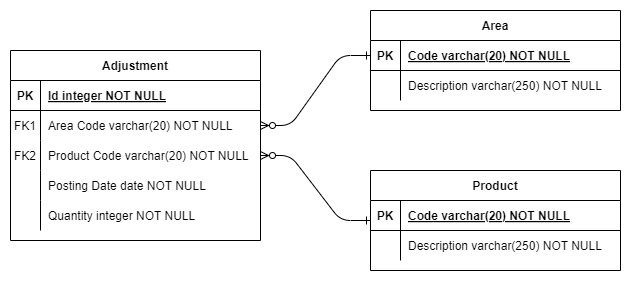
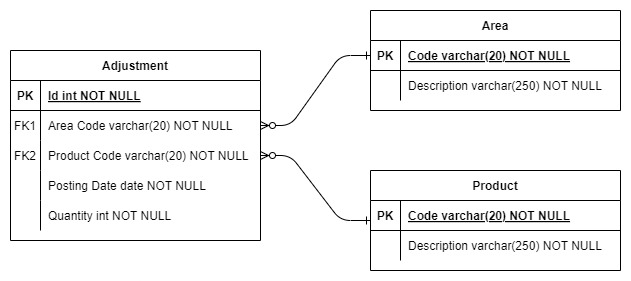
- worked on database design and sql logic (database creation)

Changed region(s): [[0.1204, 0.3132, 0.271, 0.3701], [0.1807, 0.7402, 0.3011, 0.7972]]

diff --git a/ToolLogicLibrary/Properties/Resources.Designer.cs b/ToolLogicLibrary/Properties/Resources.Designer.cs
@@ -1,0 +1,72 @@
+//------------------------------------------------------------------------------
+// <auto-generated>
+//     Dieser Code wurde von einem Tool generiert.
+//     Laufzeitversion:4.0.30319.42000
+//
+//     Änderungen an dieser Datei können falsches Verhalten verursachen und gehen verloren, wenn
+//     der Code erneut generiert wird.
+// </auto-generated>
+//------------------------------------------------------------------------------
+
+namespace ToolLogicLibrary.Properties {
+    using System;
+    
+    
+    /// <summary>
+    ///   Eine stark typisierte Ressourcenklasse zum Suchen von lokalisierten Zeichenfolgen usw.
+    /// </summary>
+    // Diese Klasse wurde von der StronglyTypedResourceBuilder automatisch generiert
+    // -Klasse über ein Tool wie ResGen oder Visual Studio automatisch generiert.
+    // Um einen Member hinzuzufügen oder zu entfernen, bearbeiten Sie die .ResX-Datei und führen dann ResGen
+    // mit der /str-Option erneut aus, oder Sie erstellen Ihr VS-Projekt neu.
+    [global::System.CodeDom.Compiler.GeneratedCodeAttribute("System.Resources.Tools.StronglyTypedResourceBuilder", "17.0.0.0")]
+    [global::System.Diagnostics.DebuggerNonUserCodeAttribute()]
+    [global::System.Runtime.CompilerServices.CompilerGeneratedAttribute()]
+    internal class Resources {
+        
+        private static global::System.Resources.ResourceManager resourceMan;
+        
+        private static global::System.Globalization.CultureInfo resourceCulture;
+        
+        [global::System.Diagnostics.CodeAnalysis.SuppressMessageAttribute("Microsoft.Performance", "CA1811:AvoidUncalledPrivateCode")]
+        internal Resources() {
+        }
+        
+        /// <summary>
+        ///   Gibt die zwischengespeicherte ResourceManager-Instanz zurück, die von dieser Klasse verwendet wird.
+        /// </summary>
+        [global::System.ComponentModel.EditorBrowsableAttribute(global::System.ComponentModel.EditorBrowsableState.Advanced)]
+        internal static global::System.Resources.ResourceManager ResourceManager {
+            get {
+                if (object.ReferenceEquals(resourceMan, null)) {
+                    global::System.Resources.ResourceManager temp = new global::System.Resources.ResourceManager("ToolLogicLibrary.Properties.Resources", typeof(Resources).Assembly);
+                    resourceMan = temp;
+                }
+                return resourceMan;
+            }
+        }
+        
+        /// <summary>
+        ///   Überschreibt die CurrentUICulture-Eigenschaft des aktuellen Threads für alle
+        ///   Ressourcenzuordnungen, die diese stark typisierte Ressourcenklasse verwenden.
+        /// </summary>
+        [global::System.ComponentModel.EditorBrowsableAttribute(global::System.ComponentModel.EditorBrowsableState.Advanced)]
+        internal static global::System.Globalization.CultureInfo Culture {
+            get {
+                return resourceCulture;
+            }
+            set {
+                resourceCulture = value;
+            }
+        }
+        
+        /// <summary>
+        ///   Sucht eine lokalisierte Zeichenfolge, die Database &quot;[DATABASENAME]&quot; already exist ähnelt.
+        /// </summary>
+        internal static string EXP_DATABASE_EXIST {
+            get {
+                return ResourceManager.GetString("EXP_DATABASE_EXIST", resourceCulture);
+            }
+        }
+    }
+}

diff --git a/ToolLogicLibrary/SqlLogic.cs b/ToolLogicLibrary/SqlLogic.cs
@@ -5,6 +5,31 @@ namespace ToolLogicLibrary
 {
     public class SqlLogic
     {
+        public static void CreateDatabase(string server, string database)
+        {
+            if (GetDatabasesFromServer(server).Contains(database))
+                throw new ArgumentException(Properties.Resources.EXP_DATABASE_EXIST.Replace("[DATABASENAME]", database));
+
+            using SqlConnection cnnCreate = GetOpenConnection(server);
+            {
+                cnnCreate.Execute($"CREATE DATABASE {database}");
+            }
+
+            using SqlConnection cnnAddTables = GetOpenConnection(server, database);
+            {
+                // Table "Area"
+                cnnAddTables.Query("CREATE TABLE [dbo].[Area] (\r\n\t[Code] [varchar](20) NOT NULL,\r\n\t[Description] [varchar](250) NOT NULL,\r\nCONSTRAINT[PK_Area] PRIMARY KEY CLUSTERED\r\n(\r\n\t[Code] ASC\r\n)WITH (PAD_INDEX = OFF, STATISTICS_NORECOMPUTE = OFF, IGNORE_DUP_KEY = OFF, ALLOW_ROW_LOCKS = ON, ALLOW_PAGE_LOCKS = ON, OPTIMIZE_FOR_SEQUENTIAL_KEY = OFF) ON [PRIMARY]\r\n) ON [PRIMARY]");
+
+                // Table "Product"
+                cnnAddTables.Query("CREATE TABLE [dbo].[Product] (\r\n\t[Code] [varchar](20) NOT NULL,\r\n\t[Description] [varchar](250) NOT NULL,\r\nCONSTRAINT[PK_Product] PRIMARY KEY CLUSTERED\r\n(\r\n\t[Code] ASC\r\n)WITH (PAD_INDEX = OFF, STATISTICS_NORECOMPUTE = OFF, IGNORE_DUP_KEY = OFF, ALLOW_ROW_LOCKS = ON, ALLOW_PAGE_LOCKS = ON, OPTIMIZE_FOR_SEQUENTIAL_KEY = OFF) ON [PRIMARY]\r\n) ON [PRIMARY]");
+
+                // Table "Adjustment"
+                cnnAddTables.Query("CREATE TABLE [dbo].[Adjustment] (\r\n\t[Id] [int] NOT NULL,\r\n\t[Area Code] [varchar](20) NOT NULL,\r\n\t[Product Code] [varchar](20) NOT NULL,\r\n\t[Posting Date] [date] NOT NULL,\r\n\t[Quantity] [int] NOT NULL,\r\nCONSTRAINT[PK_Adjustment] PRIMARY KEY CLUSTERED\r\n(\r\n\t[Id] ASC\r\n)WITH (PAD_INDEX = OFF, STATISTICS_NORECOMPUTE = OFF, IGNORE_DUP_KEY = OFF, ALLOW_ROW_LOCKS = ON, ALLOW_PAGE_LOCKS = ON, OPTIMIZE_FOR_SEQUENTIAL_KEY = OFF) ON [PRIMARY]\r\n) ON [PRIMARY]");
+                cnnAddTables.Query("ALTER TABLE [dbo].[Adjustment] WITH CHECK ADD CONSTRAINT [FK_Adjustment_Area] FOREIGN KEY([Area Code])\r\nREFERENCES [dbo].[Area] ([Code])");
+                cnnAddTables.Query("ALTER TABLE [dbo].[Adjustment] WITH CHECK ADD CONSTRAINT [FK_Adjustment_Product] FOREIGN KEY([Product Code])\r\nREFERENCES [dbo].[Product] ([Code])");
+            }
+        }
+
         public static List<string> GetDatabasesFromServer(string server)
         {
             List<string> output;
@@ -16,6 +41,19 @@ namespace ToolLogicLibrary
 
             return output;
         }
+
+        public static List<string> GetTablesFromDatabase(string server, string database)
+        {
+            List<string> output = [];
+
+            using (SqlConnection cnn = GetOpenConnection(server))
+            {
+                output = cnn.Query<string>($"SELECT [TABLE_NAME] FROM[{database}].INFORMATION_SCHEMA.TABLES WHERE TABLE_TYPE = 'BASE TABLE';").AsList();
+            }
+
+            return output;
+        }
+
         private static SqlConnection GetOpenConnection(string server, string? database = null)
         {
             string connectionString = $@"Data Source={server};{(database != null ? $"Initial Catalog={database};" : "")}Integrated Security=SSPI;TrustServerCertificate=true;";

diff --git a/ToolLibraryTests/SqlLogicTests.cs b/ToolLibraryTests/SqlLogicTests.cs
@@ -1,3 +1,4 @@
+using FluentAssertions;
 using ToolLogicLibrary;
 
 namespace ToolLibraryTests
@@ -22,6 +23,33 @@ namespace ToolLibraryTests
             List<string> databases = SqlLogic.GetDatabasesFromServer(_serverFromFile);
             Assert.IsNotNull(databases);
             Assert.IsTrue(databases.Count > 0);
+        }
+
+        [TestMethod]
+        public void CreateDatabaseAndExistsAndCorrectStructure()
+        {
+            DateTime created = DateTime.Now;
+            string newDatabase = $"Test_IMT_{created:yyyy_MM_dd_HH_mm_ss_fff}";
+            List<string> tables = ["Adjustment", "Area", "Product"];
+
+            SqlLogic.CreateDatabase(_serverFromFile, newDatabase);
+
+            List<string> databases = SqlLogic.GetDatabasesFromServer(_serverFromFile);
+            Assert.IsTrue(databases.Contains(newDatabase));
+
+            SqlLogic.GetTablesFromDatabase(_serverFromFile, newDatabase).Should().BeEquivalentTo(tables);
+        }
+
+        [TestMethod]
+        public void CreateExistingDatabaseAndException()
+        {
+            DateTime created = DateTime.Now;
+            string newDatabase = $"Test_IMT_{created:yyyy_MM_dd_HH_mm_ss_fff}";
+            SqlLogic.CreateDatabase(_serverFromFile, newDatabase);
+
+            Action act = () => SqlLogic.CreateDatabase(_serverFromFile, newDatabase);
+
+            act.Should().Throw<ArgumentException>().WithMessage($"Database \"{newDatabase}\" already exist");
         }
     }
 }
